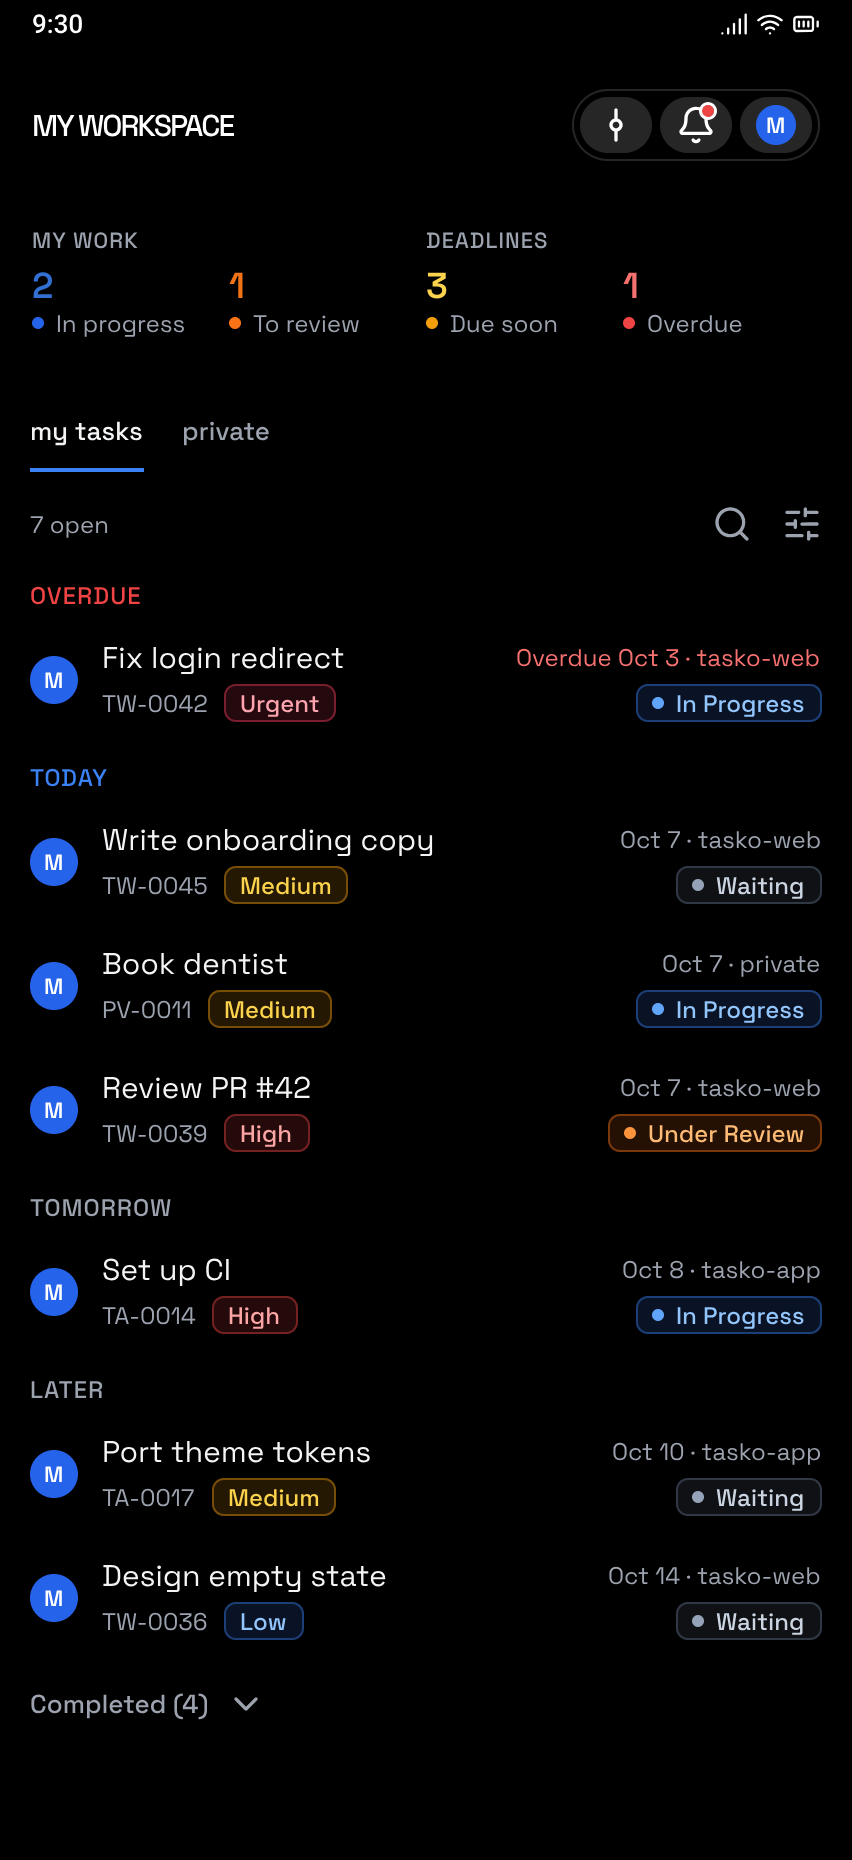
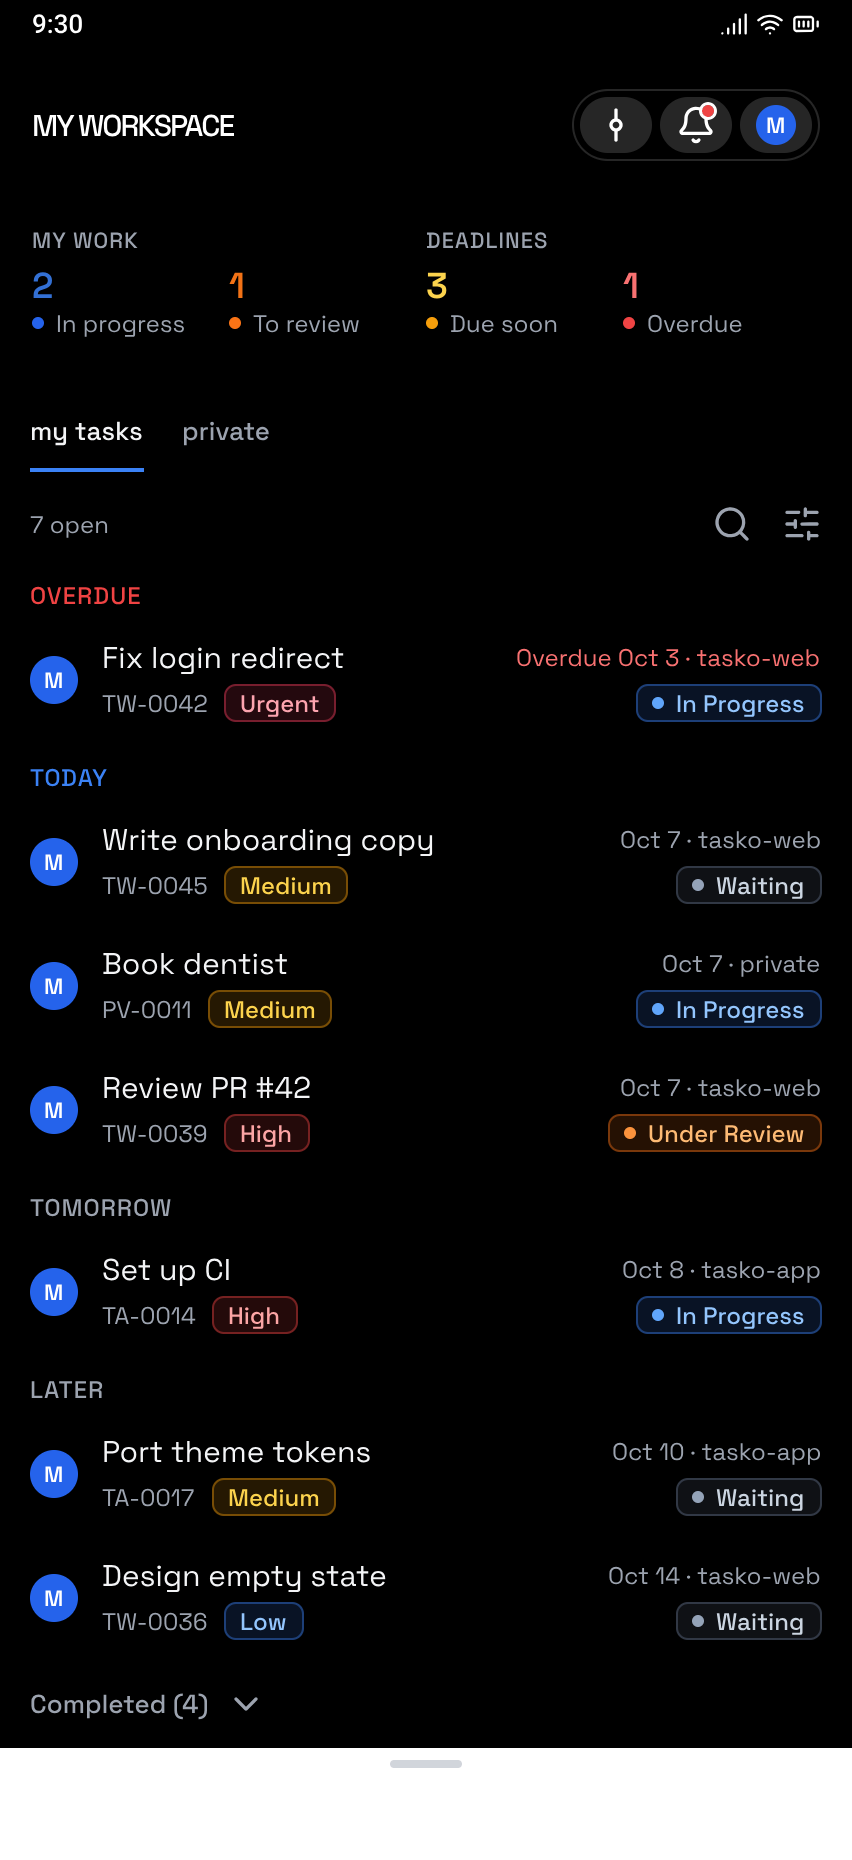
Add the swipe-up peek to return home from My Workspace

Changed region(s): [[0.0, 0.9355, 1.0, 1.0]]

diff --git a/ideas/tasko/hipster/hifi-mockup-tickets-for-pen-dev.md b/ideas/tasko/hipster/hifi-mockup-tickets-for-pen-dev.md
@@ -598,8 +598,9 @@ The button for an open mode or sheet is active: #2563EB fill, white icon.
 **My Workspace** stays dark. Its Tab Bar has "my tasks" (active) and "private",
 on black with a #27272A border and a #3B82F6 underline.
 Swiping down on the calendar in `hifi / home / default` moves to
-`hifi / My Workspace / default`, animated. The canvas cannot show motion, and the way
-back is not decided. H12's grabber is a separate gesture: dragging it up minimizes the strip.
+`hifi / My Workspace / default`, animated: the white section slides down and stays
+peeking at the bottom with a grabber (`swipe up to back to home`). Swiping it up returns
+home. The canvas cannot show motion. H12's grabber is a separate gesture: dragging it up minimizes the strip.
 
 | Frame | Shows | Built from |
 | --- | --- | --- |
